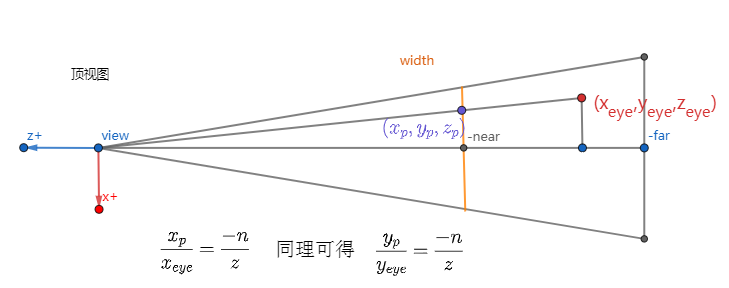
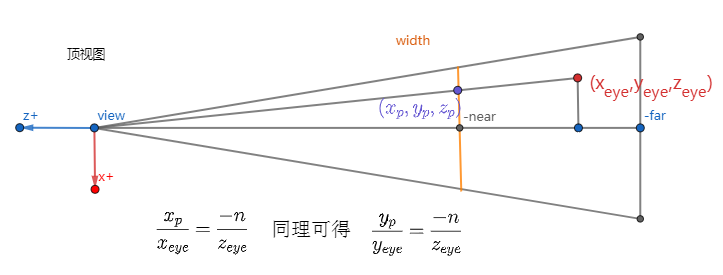
公式

diff --git a/_posts/2019-01-22-摄像机公式推导.md b/_posts/2019-01-22-摄像机公式推导.md
@@ -70,10 +70,11 @@ Matrix4x4f& Matrix4x4f::SetOrtho (
 
 如上正交投影推导一样x’和y‘映射到具有线性关系的NDC的x_ndc和y_ndc有如下二式。
 
-\frac{x_{p}-l}{r-l}=\frac{x_{ndc}-(-1)}{1-(-1)} \Rightarrow  x_{ndc}=\frac{2}{r-l}x_{p}-\frac{r+l}{r-l}\\\\
+\frac{x_{p}-l}{r-l}=\frac{x_{ndc}-(-1)}{1-(-1)} \Rightarrow  x_{ndc}=\frac{2}{r-l}x_{p}-\frac{r+l}{r-l} = \frac{\frac{2n}{r-l}x_{eye}-\frac{r+l}{r-l}z_{eye}}{-z_{eye}}
 
-\frac{y_{p}-b}{t-b}=\frac{y_{ndc}-(-1)}{1-(-1)} \Rightarrow  y_{ndc}=\frac{2}{t-b}y_{p}-\frac{t+b}{t-b}
+\\\\
 
+\frac{y_{p}-b}{t-b}=\frac{y_{ndc}-(-1)}{1-(-1)} \Rightarrow  y_{ndc}=\frac{2}{t-b}y_{p}-\frac{t+b}{t-b} =  \frac{\frac{2n}{t-b}y_{eye}-\frac{t+b}{t-b}z_{eye}}{-z_{eye}}
 
 ![image](/img/d_17.png)
 
